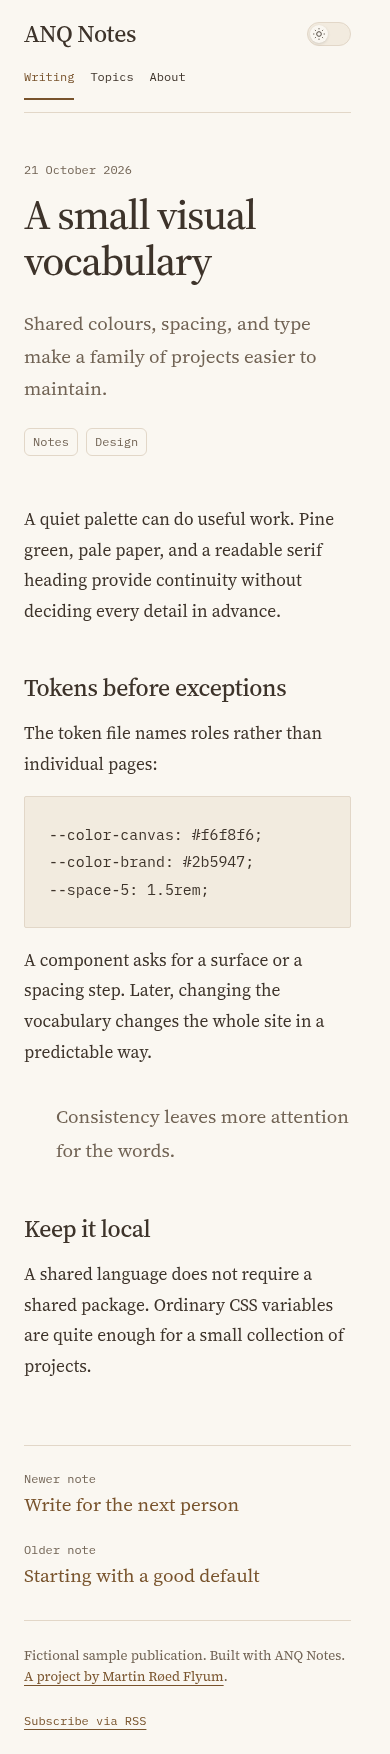
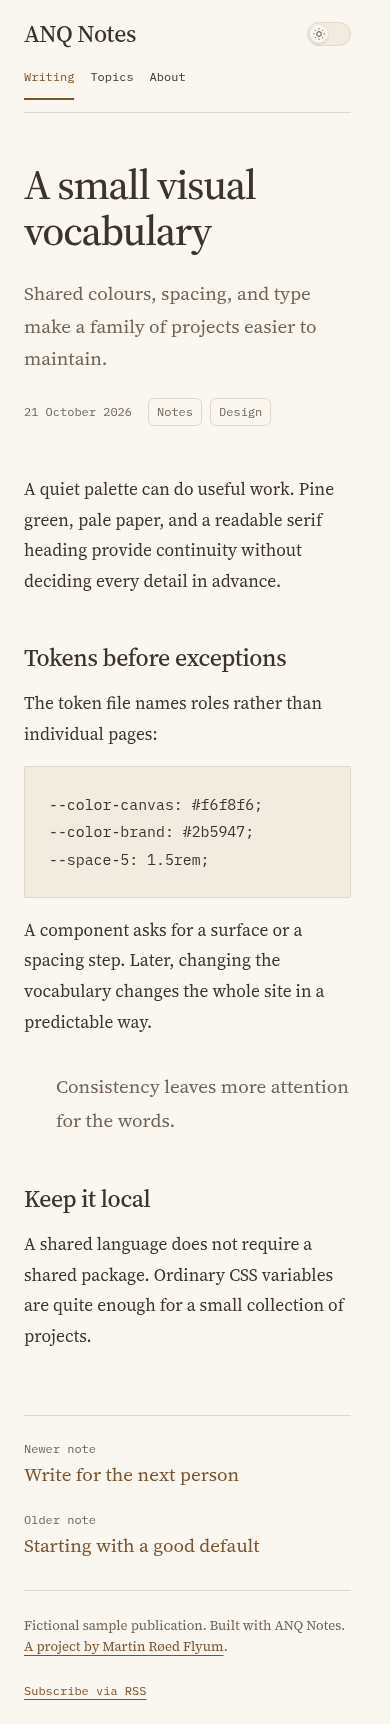
feat(post): give posts the full width and join the date to the tags
The margin column held only a date on post pages. Posts now use the full
content width, with one step larger body text to keep lines readable,
and the date sits with the tags. On phones this also stops the date
pushing the title below where every other page has it.

diff --git a/tests/browser.ts b/tests/browser.ts
@@ -226,6 +226,19 @@ try {
       ),
     );
     assert.ok(Math.abs(widths[0] - widths[1]) < 1, JSON.stringify(widths));
+    // Posts use the full content width, and their title sits where every page's title does.
+    const post = await scan.evaluate(() => ({
+      title: document.querySelector('h1')!.getBoundingClientRect().top,
+      body: document.querySelector('.prose')!.getBoundingClientRect().left,
+      rule: document.querySelector('.adjacent-posts')!.getBoundingClientRect().left,
+    }));
+    assert.ok(Math.abs(post.body - post.rule) < 1, JSON.stringify(post));
+    await scan.goto(`${origin}/about/`);
+    const pageTitle = await scan.evaluate(
+      () => document.querySelector('h1')!.getBoundingClientRect().top,
+    );
+    assert.ok(Math.abs(post.title - pageTitle) < 1, JSON.stringify({ ...post, pageTitle }));
+    await scan.goto(`${origin}/blog/one-build-many-static-hosts/`);
     const postEdges = await scan.evaluate(() =>
       ['.site-header', '.adjacent-posts', '.site-footer'].map((selector) => {
         const { left, right } = document.querySelector(selector)!.getBoundingClientRect();

diff --git a/src/pages/post.ts b/src/pages/post.ts
@@ -8,13 +8,15 @@ export function postPage(post: Document, newer?: Document, older?: Document) {
     item
       ? `<a href="${item.url}"><small>${direction}</small><span>${escape(item.title)}</span></a>`
       : '<span></span>';
-  return /* HTML */ ` <header class="page-heading">
-      <p class="eyebrow"><time datetime="${post.date}">${dateLabel(post.date!)}</time></p>
+  return /* HTML */ ` <header class="page-heading post-heading">
       <h1>${escape(post.title)}</h1>
       <p class="muted">${escape(post.description)}</p>
-      ${tags ? `<nav class="tags" aria-label="Post tags">${tags}</nav>` : ''}
+      <div class="post-meta">
+        <p class="eyebrow"><time datetime="${post.date}">${dateLabel(post.date!)}</time></p>
+        ${tags ? `<nav class="tags" aria-label="Post tags">${tags}</nav>` : ''}
+      </div>
     </header>
-    <article class="prose">${post.html}</article>
+    <article class="prose post-body">${post.html}</article>
     ${
       newer || older
         ? `<nav class="adjacent-posts" aria-label="More writing">${adjacent(newer, 'Newer note')}${adjacent(older, 'Older note')}</nav>`

diff --git a/styles/site.css b/styles/site.css
@@ -294,6 +294,32 @@ th {
   border-color: var(--color-brand);
   color: var(--color-brand);
 }
+/* A post has no margin column: it takes the full content width, and larger text keeps
+   the lines comfortable to read. The date joins the tags. */
+main > .post-heading {
+  display: block;
+}
+.post-meta {
+  margin-top: var(--space-5);
+  display: flex;
+  flex-wrap: wrap;
+  align-items: center;
+  gap: var(--space-2) var(--space-4);
+}
+.post-meta .eyebrow,
+.post-meta .tags {
+  margin: 0;
+}
+main > .post-body {
+  margin-left: 0;
+  max-width: none;
+}
+@media (min-width: 761px) {
+  .post-body {
+    font-size: var(--text-lg);
+  }
+}
+
 /* Topics follow the writing index: a rule per row, the count where a date would sit. */
 main > .topic-grid {
   margin-left: 0;

diff --git a/DESIGN.md b/DESIGN.md
@@ -11,6 +11,8 @@ ANQ Notes follows the ANQ family system.
 - **Density:** generous. Body `--text-md`, prose line height 1.8.
 - **Signature:** dates in the margin column beside a ruled index of posts, and
   post counts in the same place on Topics. Below 760px they move above their entry.
+  A post has no margin column: it takes the full content width with
+  `--text-lg` body text, and its date sits with its tags.
 - **JavaScript:** required to work without it. Pages are static HTML; the
   theme switch is the only script and is an enhancement.
 
